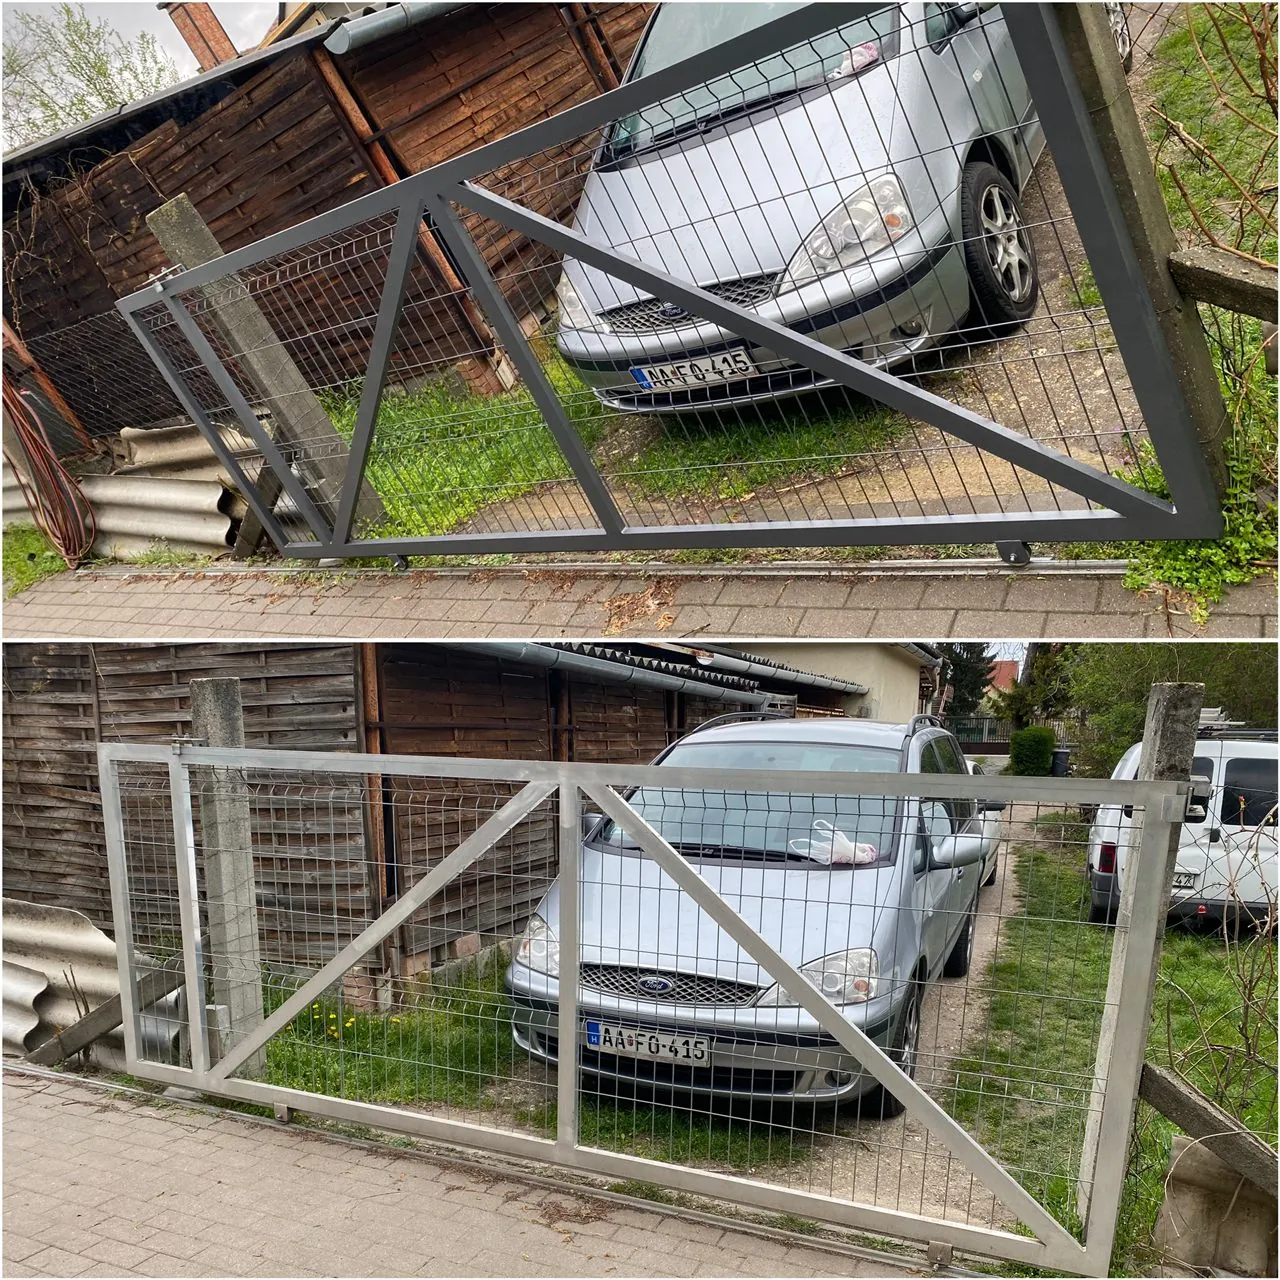
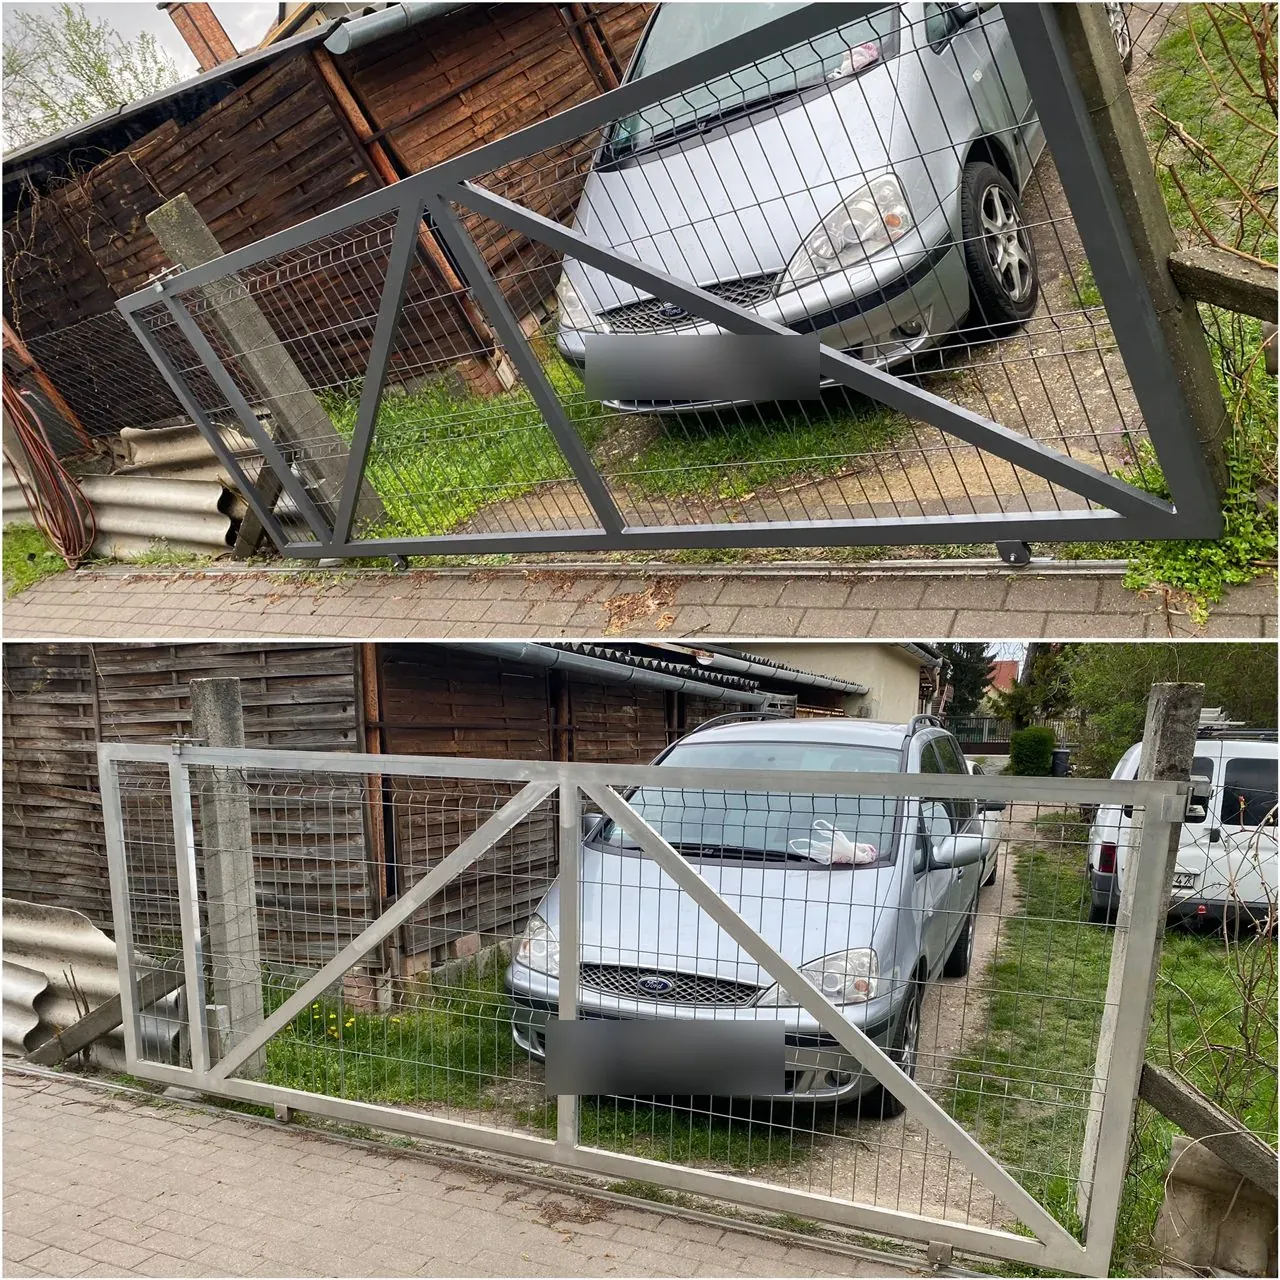
Rólunk szöveg frissítése, telefonszám csere, rendszám elhomályosítás
Új céges bemutatkozó szöveg beépítve összecsukható "Tovább olvasom"
résszel, az elavult telefonszám lecserélve mindenhol, és a kapu
előtte-utána képen látható rendszámok elhomályosítva.

Changed region(s): [[0.4062, 0.7812, 0.625, 0.875], [0.4375, 0.25, 0.6562, 0.3125]]

diff --git a/index.html b/index.html
@@ -117,6 +117,16 @@ h1 .accent{background:linear-gradient(135deg,var(--accent),var(--accent2));-webk
 .about-grid{display:grid;grid-template-columns:1fr 1fr;gap:4rem;align-items:center}
 .about-text p{color:var(--muted);line-height:1.7;margin-bottom:1.2rem;font-size:1.05rem}
 .about-text p strong{color:var(--ink);font-weight:600}
+.about-list{list-style:none;margin:0 0 1.2rem;padding:0;display:grid;gap:.6rem}
+.about-list li{position:relative;padding-left:1.6rem;color:var(--muted);line-height:1.5;font-size:1.02rem}
+.about-list li::before{content:"✓";position:absolute;left:0;top:0;color:var(--accent);font-weight:700}
+.about-more{display:grid;grid-template-rows:0fr;opacity:0;transition:grid-template-rows .5s cubic-bezier(.4,0,.2,1),opacity .4s ease}
+.about-more-inner{overflow:hidden}
+.about-more.open{grid-template-rows:1fr;opacity:1;margin-top:.2rem}
+.about-more-btn{display:inline-flex;align-items:center;gap:.4rem;background:none;border:none;color:var(--accent);font-family:inherit;font-size:.95rem;font-weight:600;cursor:pointer;padding:.3rem 0;margin-top:.4rem}
+.about-more-btn svg{width:16px;height:16px;transition:transform .3s}
+.about-more-btn:hover{color:var(--ink)}
+.about-more-btn.open svg{transform:rotate(180deg)}
 .about-cards{display:grid;grid-template-columns:1fr 1fr;gap:1rem}
 .about-card{background:#fff;border:1px solid rgba(15,26,46,.08);border-radius:14px;padding:1.5rem;box-shadow:0 2px 8px rgba(15,26,46,.04)}
 .about-card .ac-num{font-family:'Bricolage Grotesque',sans-serif;font-size:2.2rem;font-weight:800;color:var(--accent);line-height:1;margin-bottom:.5rem}
@@ -336,7 +346,7 @@ section{padding:4rem clamp(1.5rem,5vw,2rem)}
 <p class="lead">Fémfelületek porfestése és felületkezelése 1995 óta — precíz előkészítéssel és megbízható átfutással, a kisszériától az ipari mennyiségig.</p>
 <div class="cta-group">
 <a href="#kapcsolat" class="btn btn-primary">Kérek árajánlatot →</a>
-<a href="tel:[phone redacted]" class="btn btn-secondary">📞 [phone redacted]</a>
+<a href="tel:[phone redacted]" class="btn btn-secondary">📞 [phone redacted]</a>
 </div>
 <div class="stats">
 <div class="stat"><div class="num">30+</div><div class="label">Év tapasztalat</div></div>
@@ -359,10 +369,25 @@ section{padding:4rem clamp(1.5rem,5vw,2rem)}
 </div>
 <div class="about-text">
 <div class="eyebrow">Rólunk</div>
-<h2>Három évtized<br>a <span class="accent">felületek</span> mögött.</h2>
-<p>A <strong>Szinter System Bt.</strong> 1995 óta dolgozik fémfelületek professzionális porfestésén és felületkezelésén. Gyömrői üzemünkben kis sorozatoktól az ipari mennyiségig minden megrendelést egyformán pontosan teljesítünk.</p>
-<p>Hiszünk abban, hogy egy tartós bevonat nem csak a festéken múlik — a <strong>precíz előkészítés</strong>, a megfelelő technológia és a következetes minőségellenőrzés legalább annyira fontos. Ezért minden darabnál ügyelünk a gondos előkészítésre és a pontos kivitelezésre.</p>
-<p>Partnereink között megtalálhatók kisebb fémmegmunkáló műhelyek és nagy ipari gyártók egyaránt. Az alapanyag-választástól a kiszállításig egy csapatban gondolkozunk velük.</p>
+<h2>Több mint 30 év szakértelem,<br>amely <span class="accent">generációkon át</span> öröklődik.</h2>
+<p>1995-ben egy célt tűztünk ki magunk elé: olyan vállalkozást építeni, ahol a minőség, a megbízhatóság és a tisztességes munka mindig az első helyen áll. Számunkra a porfestés és a homokszórás nem csupán egy szolgáltatás, hanem szakma, amelyet több mint három évtizede szenvedéllyel végzünk.</p>
+<ul class="about-list">
+<li>Több mint 30 év szakmai tapasztalat</li>
+<li>1995 óta működő családi vállalkozás</li>
+<li>Precíz homokszórás és professzionális porfestés</li>
+<li>Rövid vállalási határidők</li>
+<li>Kiváló minőségű alapanyagok</li>
+<li>Lakossági és ipari megrendelések</li>
+<li>Korrekt árak és személyes ügyfélkapcsolat</li>
+</ul>
+<div class="about-more" id="aboutMore">
+<div class="about-more-inner">
+<p>Minden elkészült munkánk mögött tapasztalat, precizitás és odafigyelés áll. A családias működés számunkra nem csupán egy jól hangzó kifejezés, hanem a mindennapok része. Fontosnak tartjuk a közvetlen, korrekt kommunikációt, a rugalmasságot és azt, hogy megrendelőink mindig számíthassanak ránk. Hiszünk abban, hogy a hosszú távú együttműködés alapja a kölcsönös bizalom, a korrekt kommunikáció és a kifogástalan minőség.</p>
+<p>A korszerű technológiának, a minőségi porfestékeknek és a gondosan előkészített felületeknek köszönhetően tartós, esztétikus bevonatokat készítünk, amelyek hosszú éveken át ellenállnak a mindennapi igénybevételnek. Munkánk során mindig ugyanaz vezérel bennünket: olyan minőséget átadni, amelyre mi magunk is büszkék lehetünk.</p>
+<p><strong>Szinter System Bt.</strong> – Ahol a több mint 30 éves tapasztalat találkozik a modern technológiával és a családi értékekkel.</p>
+</div>
+</div>
+<button class="about-more-btn" id="aboutMoreBtn" aria-expanded="false" aria-controls="aboutMore">Tovább olvasom <svg viewBox="0 0 24 24" fill="none" stroke="currentColor" stroke-width="2"><path d="M6 9l6 6 6-6"/></svg></button>
 </div>
 </div>
 </div>
@@ -594,7 +619,7 @@ section{padding:4rem clamp(1.5rem,5vw,2rem)}
 </details>
 <details>
 <summary>Hogyan kérhetek árajánlatot?</summary>
-<div class="a">Töltsd ki a lenti űrlapot a darab adataival (méret, mennyiség, RAL/katalógus szín, határidő), vagy hívj minket a <a href="tel:[phone redacted]" style="color:var(--accent);font-weight:600">[phone redacted]</a> számon — telefonon gyakran gyorsabb.</div>
+<div class="a">Töltsd ki a lenti űrlapot a darab adataival (méret, mennyiség, RAL/katalógus szín, határidő), vagy hívj minket a <a href="tel:[phone redacted]" style="color:var(--accent);font-weight:600">[phone redacted]</a> számon — telefonon gyakran gyorsabb.</div>
 </details>
 </div>
 </div>
@@ -610,7 +635,7 @@ section{padding:4rem clamp(1.5rem,5vw,2rem)}
 <div class="contact-info">
 <div class="contact-item">
 <div class="ci-icon"><svg viewBox="0 0 24 24" fill="none" stroke="currentColor" stroke-width="2"><path d="M22 16.92v3a2 2 0 0 1-2.18 2 19.79 19.79 0 0 1-8.63-3.07 19.5 19.5 0 0 1-6-6 19.79 19.79 0 0 1-3.07-8.67A2 2 0 0 1 4.11 2h3a2 2 0 0 1 2 1.72 12.84 12.84 0 0 0 .7 2.81 2 2 0 0 1-.45 2.11L8.09 9.91a16 16 0 0 0 6 6l1.27-1.27a2 2 0 0 1 2.11-.45 12.84 12.84 0 0 0 2.81.7A2 2 0 0 1 22 16.92z"/></svg></div>
-<div><div class="ci-label">Telefon</div><div class="ci-value"><a href="tel:[phone redacted]">[phone redacted]</a></div></div>
+<div><div class="ci-label">Telefon</div><div class="ci-value"><a href="tel:[phone redacted]">[phone redacted]</a></div></div>
 </div>
 <div class="contact-item">
 <div class="ci-icon"><svg viewBox="0 0 24 24" fill="none" stroke="currentColor" stroke-width="2"><path d="M4 4h16c1.1 0 2 .9 2 2v12c0 1.1-.9 2-2 2H4c-1.1 0-2-.9-2-2V6c0-1.1.9-2 2-2z"/><polyline points="22,6 12,13 2,6"/></svg></div>
@@ -657,7 +682,7 @@ section{padding:4rem clamp(1.5rem,5vw,2rem)}
 </footer>
 
 <!-- lebegő hívás gomb -->
-<a class="callbtn" href="tel:[phone redacted]" aria-label="Hívás"><svg viewBox="0 0 24 24" fill="none" stroke="currentColor" stroke-width="2"><path d="M22 16.92v3a2 [phone redacted].[phone redacted] [phone redacted].[phone redacted].67A2 [phone redacted] 2h3a2 [phone redacted].84 0 0 0 .[phone redacted]-.45 2.11L8.09 9.91a16 16 0 0 0 6 6l1.27-1.27a2 [phone redacted]-.[phone redacted].81.7A2 [phone redacted].92z"/></svg><span class="lbl">Hívás</span></a>
+<a class="callbtn" href="tel:[phone redacted]" aria-label="Hívás"><svg viewBox="0 0 24 24" fill="none" stroke="currentColor" stroke-width="2"><path d="M22 16.92v3a2 [phone redacted].[phone redacted] [phone redacted].[phone redacted].67A2 [phone redacted] 2h3a2 [phone redacted].84 0 0 0 .[phone redacted]-.45 2.11L8.09 9.91a16 16 0 0 0 6 6l1.27-1.27a2 [phone redacted]-.[phone redacted].81.7A2 [phone redacted].92z"/></svg><span class="lbl">Hívás</span></a>
 
 <!-- lightbox -->
 <div class="lb" id="lb"><button class="x" id="lbX" aria-label="Bezárás">&times;</button><img id="lbImg" src="" alt=""></div>
@@ -735,6 +760,19 @@ section{padding:4rem clamp(1.5rem,5vw,2rem)}
   ov.addEventListener('click',()=>set(false));
   document.getElementById('mClose').addEventListener('click',()=>set(false));
   menu.querySelectorAll('a').forEach(a=>a.addEventListener('click',()=>set(false)));
+})();
+
+/* rólunk — tovább olvasom */
+(function(){
+  const btn=document.getElementById('aboutMoreBtn'),more=document.getElementById('aboutMore');
+  if(!btn||!more)return;
+  btn.addEventListener('click',()=>{
+    const open=!more.classList.contains('open');
+    more.classList.toggle('open',open);
+    btn.classList.toggle('open',open);
+    btn.setAttribute('aria-expanded',open);
+    btn.firstChild.textContent=open?'Kevesebb ':'Tovább olvasom ';
+  });
 })();
 </script>
 

diff --git a/fejlec-otletek.html b/fejlec-otletek.html
@@ -78,7 +78,7 @@ header.site .nav-cta{background:var(--accent);color:#fff;padding:.6rem 1.2rem;bo
 </div>
 
 <header class="site v-frosted" id="hdr">
-  <div class="topbar"><span>📞 <b>06-30-9-613-958</b></span><span>✉ [email redacted]</span><span>H–P 08:00–16:00</span></div>
+  <div class="topbar"><span>📞 <b>06-30-8-830-693</b></span><span>✉ [email redacted]</span><span>H–P 08:00–16:00</span></div>
   <div class="nav-inner">
     <a class="brand" href="#"><img src="images.html/logo-trans.png" alt="Szinter System Bt."></a>
     <nav class="menu">